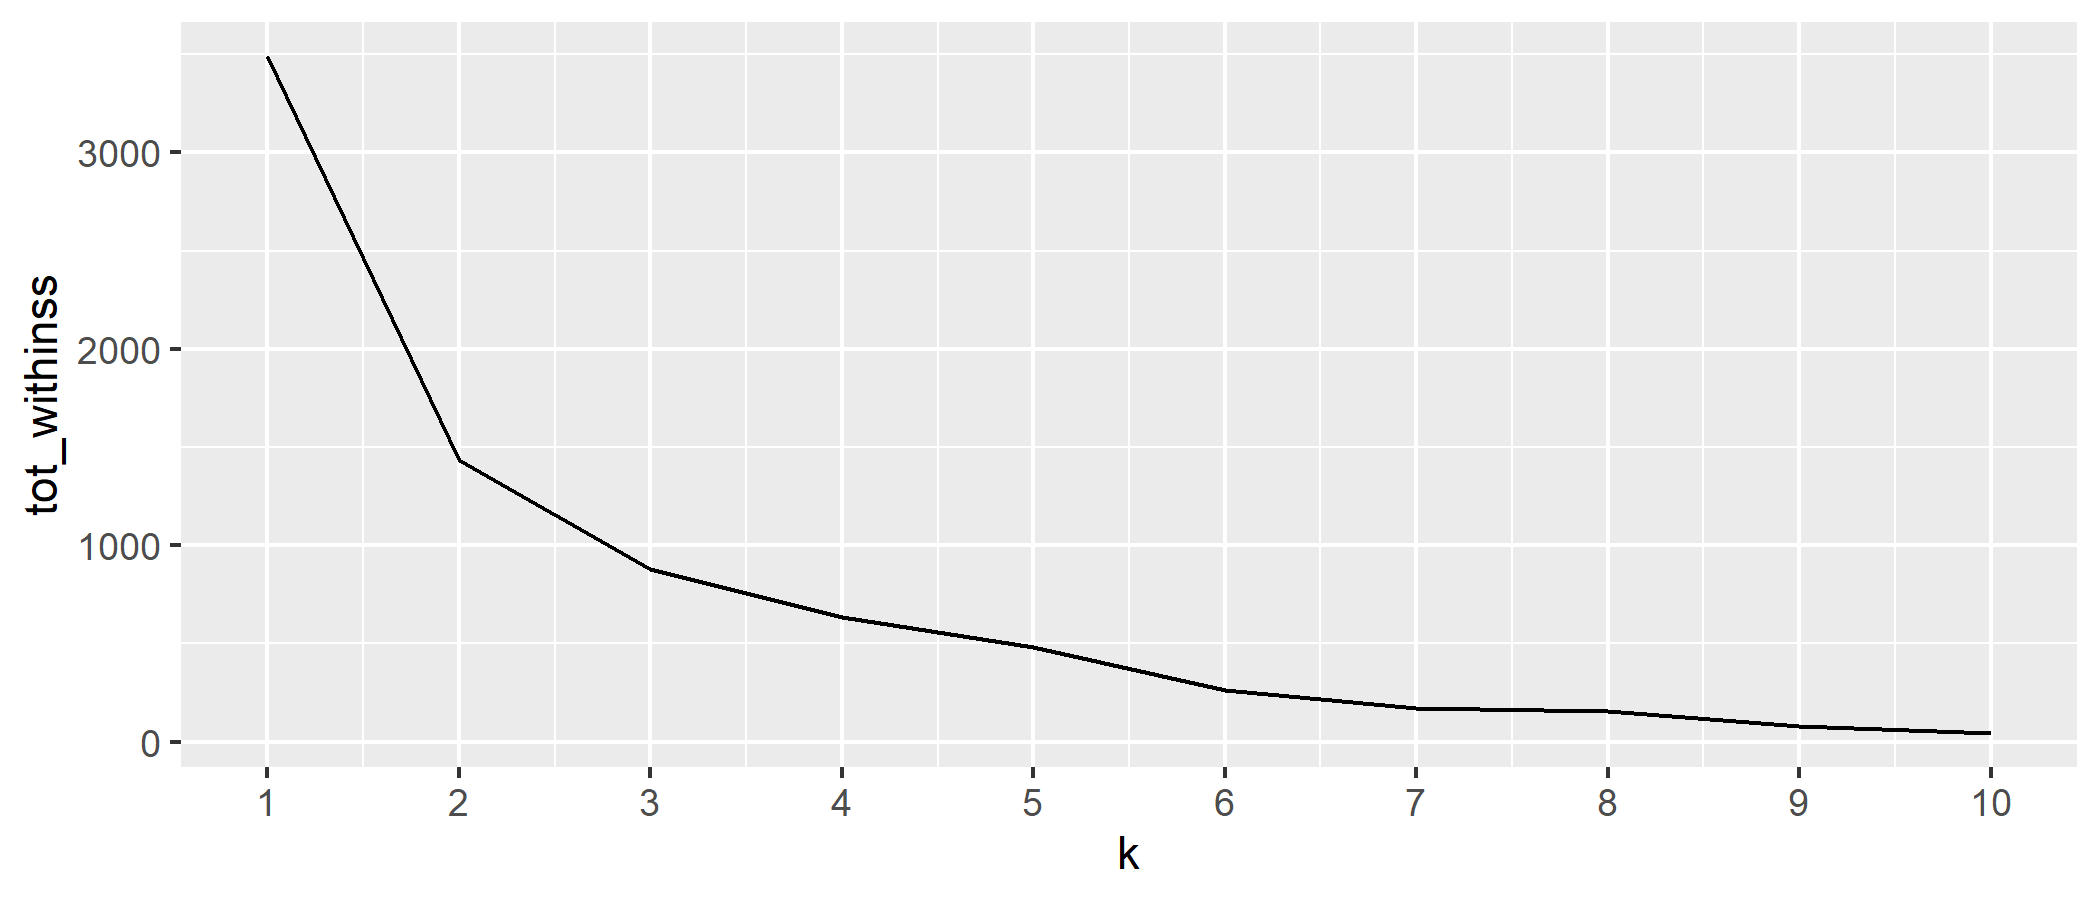
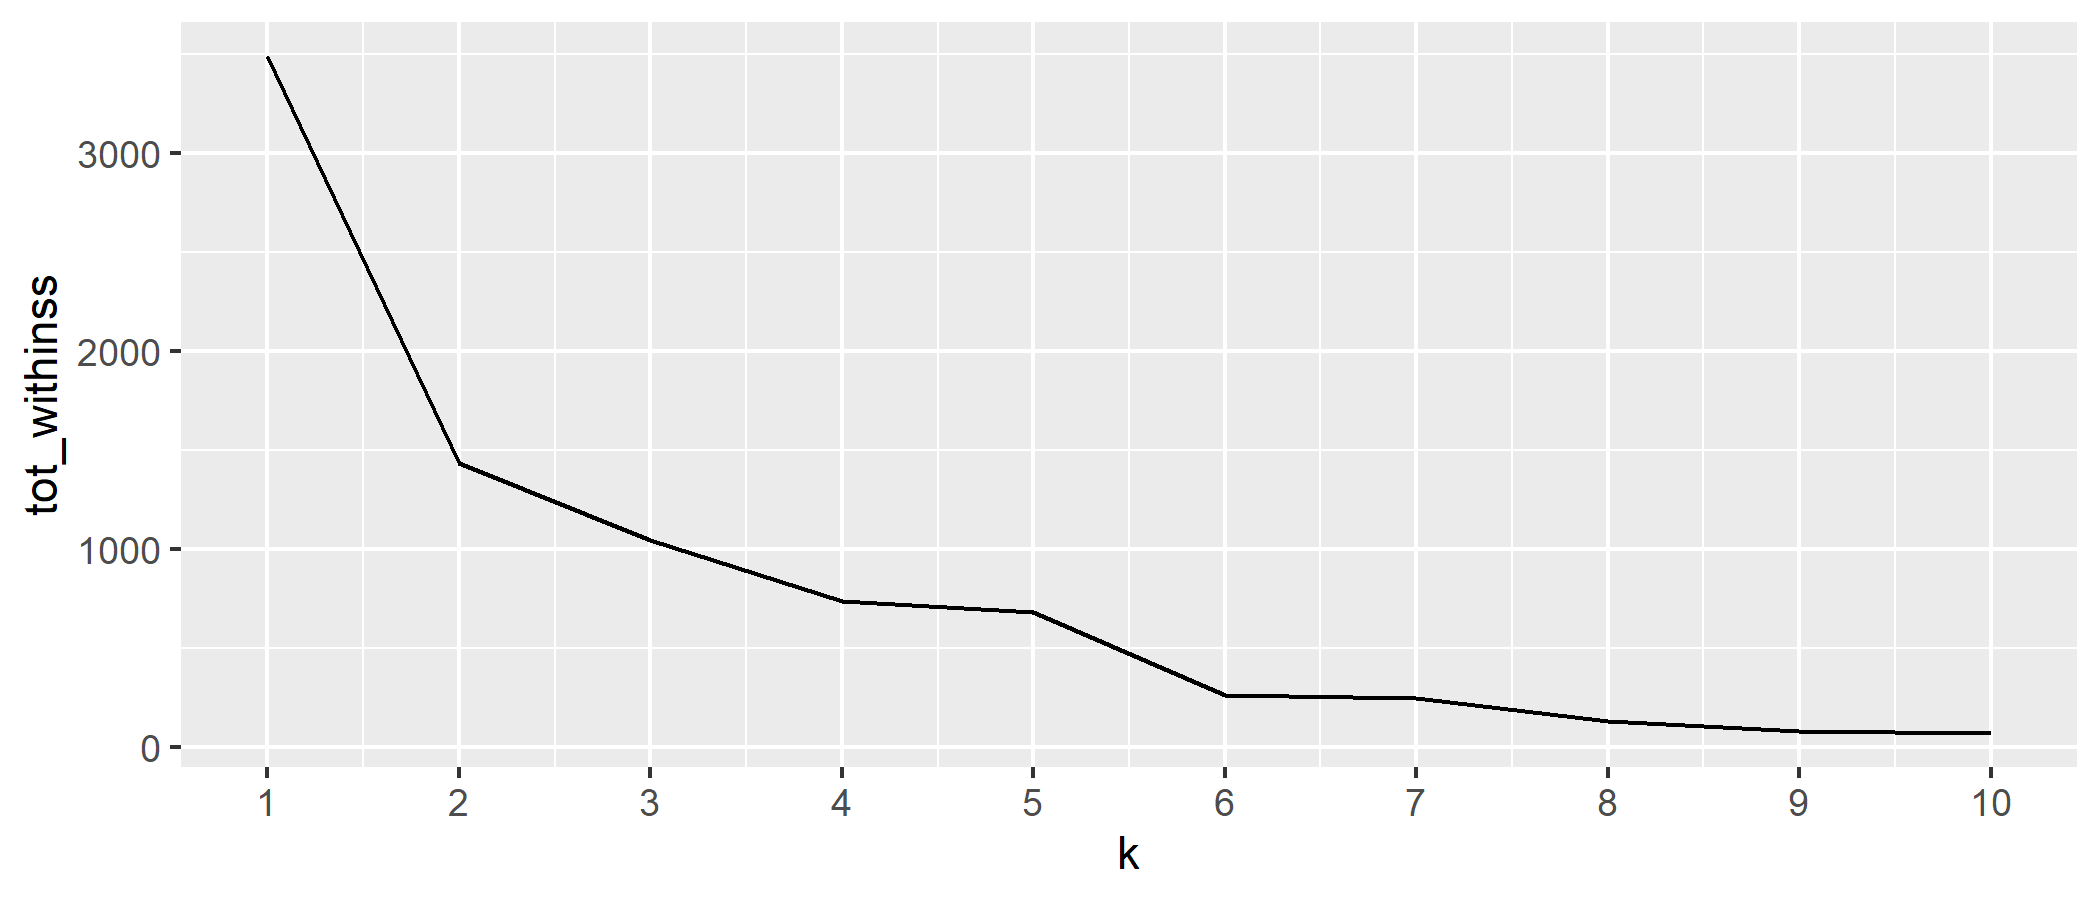
resuorcen zugeben

diff --git a/Predavanja/06_KLASTER.html b/Predavanja/06_KLASTER.html
@@ -78,6 +78,17 @@ name: kars
 
 ---
 
+# Resursi
+
+- *klaster analiza* je općenito (i u R) dobro dokumentirana
+- sveobuhvatni vodič [Practical Guide To Cluster Analysis in R](https://xsliulab.github.io/Workshop/week10/r-cluster-book.pdf) 
+- dostupno je i mnoštvo tutorial-a na: [link 1](https://uc-r.github.io/kmeans_clustering) , [link 2](https://statsandr.com/blog/clustering-analysis-k-means-and-hierarchical-clustering-by-hand-and-in-r/), [link 3](https://towardsdatascience.com/how-to-use-and-visualize-k-means-clustering-in-r-19264374a53c), [link 4](https://www.datanovia.com/en/blog/cluster-analysis-in-r-practical-guide/)
+- postoji i [CRAN Task](https://cran.r-project.org/web/views/Cluster.html) na temu klasteringa
+- interaktivni tutorial na [DataCamp-u](https://www.datacamp.com/courses/cluster-analysis-in-r)
+
+
+---
+
 # Što je klaster analiza?
 
 
@@ -458,7 +469,7 @@ dist(dummieZadovoljstvo, method = "binary")
 ---
 
 class: inverse, center, middle
-name: kars
+name: hier
 
 # HIJERARHIJSKI KLASTERING
 
@@ -844,7 +855,7 @@ print(igraciKlaster) # Podatci + klasteri
 ---
 
 class: inverse, center, middle
-name: kars
+name: kmen
 
 # K MEANS KLASTERING
 
@@ -1071,30 +1082,21 @@ tot_withinss &lt;- map_dbl(1:10, function(k){
 model &lt;- kmeans(x = lineup, centers = k)
 model$tot.withinss})
 elbow_df &lt;- data.frame(k = 1:10,tot_withinss = tot_withinss)
-head(print(elbow_df),5)
+print(elbow_df)
 ```
 
 ```
 ##     k tot_withinss
 ## 1   1    3489.9167
 ## 2   2    1434.5000
-## 3   3     881.2500
-## 4   4     637.2500
-## 5   5     481.6667
+## 3   3    1049.0833
+## 4   4     740.4167
+## 5   5     682.3333
 ## 6   6     265.1667
-## 7   7     171.0000
-## 8   8     156.5000
+## 7   7     250.6667
+## 8   8     134.0000
 ## 9   9      82.0000
-## 10 10      45.0000
-```
-
-```
-##   k tot_withinss
-## 1 1    3489.9167
-## 2 2    1434.5000
-## 3 3     881.2500
-## 4 4     637.2500
-## 5 5     481.6667
+## 10 10      73.5000
 ```
 
 ---
